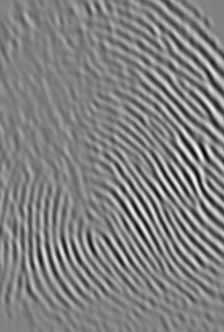
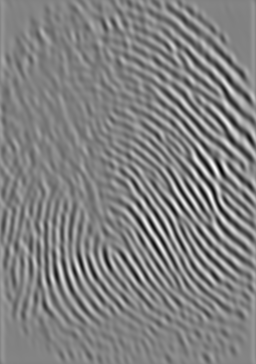
Added pad value to pad 255 values

diff --git a/main.py b/main.py
@@ -86,15 +86,15 @@ class ConvolutionProcessor:
         return pad_width, pad_height
 
     @staticmethod
-    def apply_padding(image: np.ndarray, pad_width: int, pad_height: int) -> np.ndarray:
+    def apply_padding(image: np.ndarray, pad_width: int, pad_height: int, pad_value: int = 0 ) -> np.ndarray:
         """Apply zero padding to an image."""
         if image.ndim != 2:
             raise ValueError("Image array must be 2D")
 
-        padded_image = np.zeros(
+        padded_image = np.ones(
             (image.shape[0] + 2 * pad_height, image.shape[1] + 2 * pad_width),
             dtype=image.dtype
-        )
+        ) * pad_value
         padded_image[pad_height:-pad_height, pad_width:-pad_width] = image
 
         return padded_image
@@ -104,7 +104,8 @@ class ConvolutionProcessor:
             image: np.ndarray,
             kernel: np.ndarray,
             pad_width: Optional[int] = None,
-            pad_height: Optional[int] = None
+            pad_height: Optional[int] = None,
+            perform_padding: Optional[bool] = False
     ) -> np.ndarray:
         """Apply convolution operation to an image using the given kernel."""
         if image.ndim != 2:
@@ -116,12 +117,14 @@ class ConvolutionProcessor:
         if pad_width is None or pad_height is None:
             pad_width, pad_height = ConvolutionProcessor.calculate_padding_size(kernel)
 
-        new_height = max(1, image.shape[0] - 2 * pad_height)
-        new_width = max(1, image.shape[1] - 2 * pad_width)
+        if perform_padding:
+            image = ConvolutionProcessor.apply_padding(image, pad_width, pad_height, pad_value=255)
+
+        k_height, k_width = kernel.shape
+        new_height = image.shape[0] - k_height + 1
+        new_width = image.shape[1] - k_width + 1
 
         result = np.zeros((new_height, new_width), dtype=np.float32)
-        k_height, k_width = kernel.shape
-
         for i in range(new_height):
             for j in range(new_width):
                 roi = image[i:i + k_height, j:j + k_width]
@@ -303,7 +306,8 @@ def main():
     filtered_images = [
         ConvolutionProcessor.apply_convolution(
             normalized_image_array,
-            kernel
+            kernel,
+            perform_padding=True
         ) for kernel in gabor_kernel_vector
     ]
 
